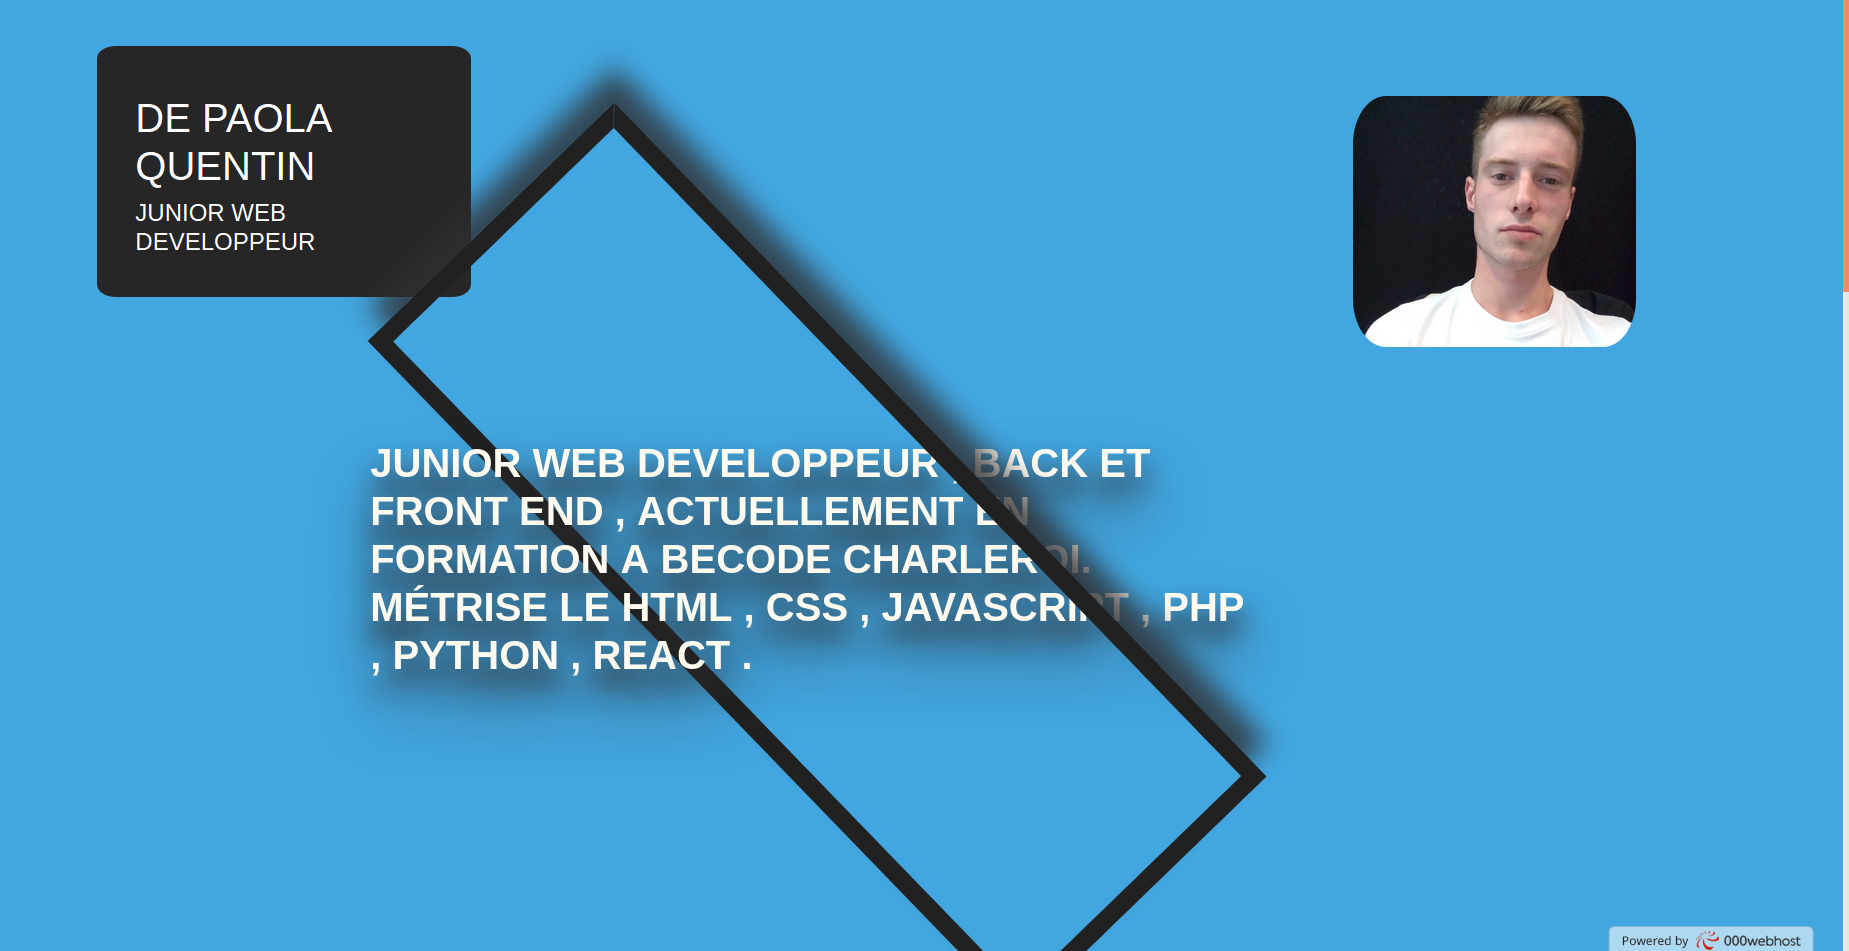
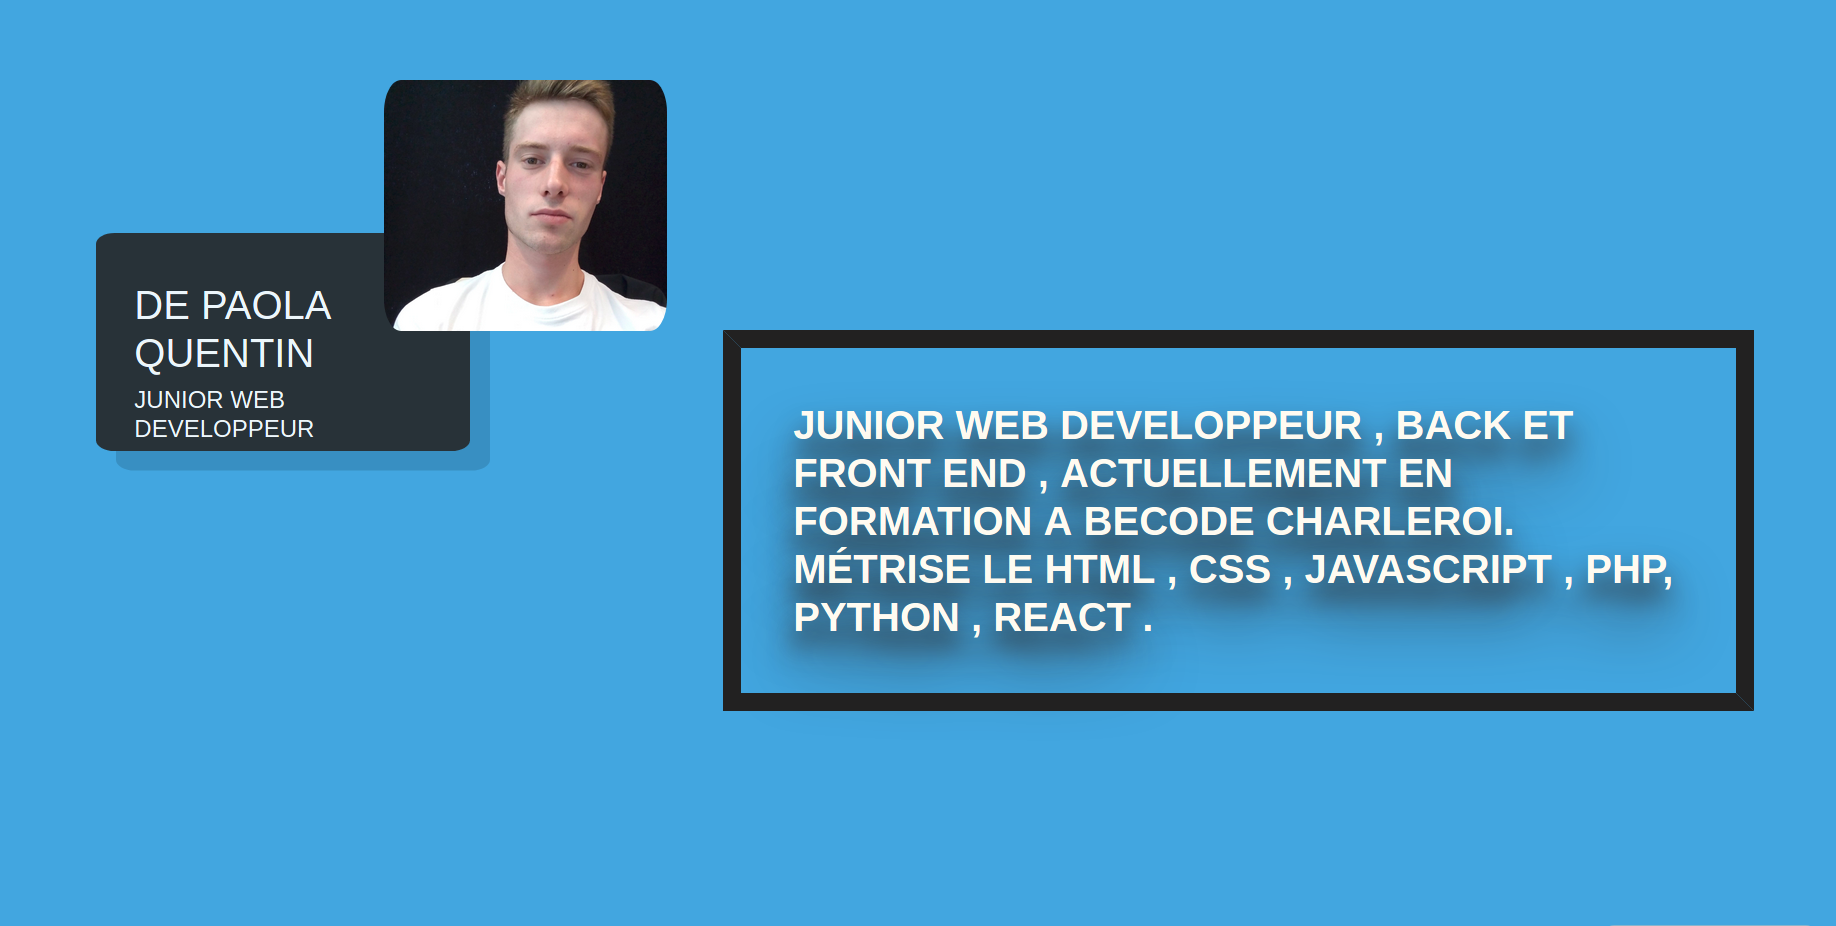
mise a jour

diff --git a/index.html b/index.html
@@ -27,7 +27,7 @@
                     </div>
                      <a href="https://todo-list-json.000webhostapp.com/">
                      <div class="port-img">
-                        <img src="img/sitecv.png" alt="">
+                        <img src="img/cv45.png" alt="">
                      </div>
                     <div class="infos">Mon site cv réalisé en php , html css , js , gsap , boostrap , avec formulaire de contact et bdd sql.</div>
                  </div>
